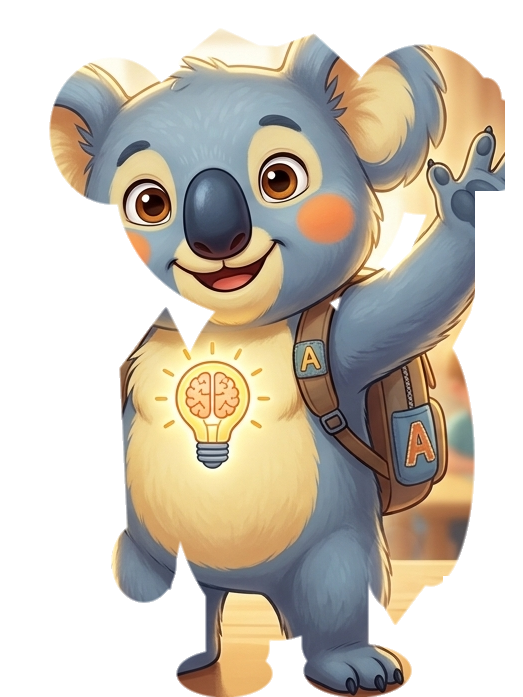
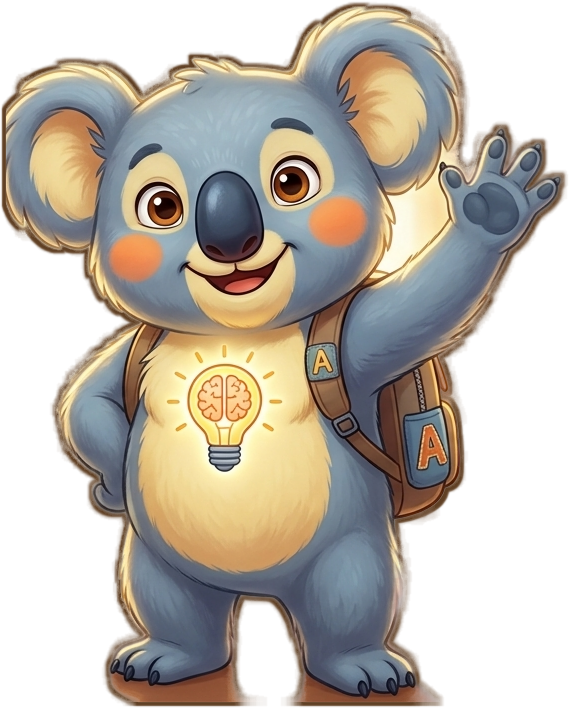
Clean up Atlas cutout and corner greeting

diff --git a/css/style.css b/css/style.css
@@ -339,29 +339,6 @@ main {
   gap: 0.7rem;
 }
 
-.atlas-dashboard-callout {
-  display: grid;
-  grid-template-columns: auto minmax(0, 1fr);
-  align-items: center;
-  gap: 0.75rem;
-  width: min(100%, 34rem);
-  margin: 1rem 0;
-  padding: 0.8rem;
-  border: 1px solid color-mix(in srgb, var(--atlas-blue-strong) 25%, var(--line));
-  border-radius: 16px;
-  background: color-mix(in srgb, var(--atlas-blue) 18%, var(--surface-strong));
-  box-shadow: var(--shadow-soft);
-}
-
-.atlas-dashboard-callout strong,
-.atlas-dashboard-callout span {
-  display: block;
-}
-
-.atlas-dashboard-callout span {
-  color: var(--muted);
-}
-
 .primary-button,
 .secondary-button,
 .text-button,
@@ -950,10 +927,44 @@ textarea {
   filter: drop-shadow(0 1.45rem 1.6rem rgba(31, 45, 75, 0.34)) saturate(1.08);
 }
 
+.atlas-corner-bubble {
+  position: absolute;
+  right: min(72%, 10.4rem);
+  top: clamp(0.4rem, 2vw, 1.1rem);
+  width: min(13.5rem, 48vw);
+  padding: 0.72rem 0.85rem;
+  border: 1px solid color-mix(in srgb, var(--atlas-blue-strong) 34%, var(--line));
+  border-radius: 18px 18px 6px 18px;
+  background: color-mix(in srgb, var(--surface-strong) 94%, var(--atlas-blue));
+  box-shadow: 0 16px 38px rgba(31, 45, 75, 0.16);
+  color: var(--text);
+  font-size: 0.88rem;
+  font-weight: 900;
+  line-height: 1.25;
+  pointer-events: none;
+  animation: atlasBubblePulse 2.8s ease-in-out infinite;
+}
+
+.atlas-corner-bubble::after {
+  content: "";
+  position: absolute;
+  right: -0.42rem;
+  bottom: 0.75rem;
+  width: 0.8rem;
+  height: 0.8rem;
+  border-right: 1px solid color-mix(in srgb, var(--atlas-blue-strong) 34%, var(--line));
+  border-bottom: 1px solid color-mix(in srgb, var(--atlas-blue-strong) 34%, var(--line));
+  background: inherit;
+  transform: rotate(-45deg);
+}
+
 .atlas-standing-image {
   display: block;
   width: 100%;
   height: auto;
+  filter:
+    drop-shadow(0 0 1px rgba(86, 53, 28, 0.95))
+    drop-shadow(0 0 5px rgba(255, 255, 255, 0.92));
   pointer-events: none;
   user-select: none;
 }
@@ -1054,6 +1065,18 @@ textarea {
   }
 }
 
+@keyframes atlasBubblePulse {
+  0%,
+  100% {
+    transform: scale(1);
+    box-shadow: 0 16px 38px rgba(31, 45, 75, 0.16);
+  }
+  50% {
+    transform: scale(1.035);
+    box-shadow: 0 20px 46px rgba(31, 45, 75, 0.2);
+  }
+}
+
 @media (prefers-reduced-motion: reduce) {
   *,
   *::before,
@@ -1125,8 +1148,7 @@ textarea {
     grid-template-columns: 1fr;
   }
 
-  .atlas-welcome,
-  .atlas-dashboard-callout {
+  .atlas-welcome {
     grid-template-columns: 1fr;
     text-align: left;
   }
@@ -1135,5 +1157,12 @@ textarea {
     width: 9.5rem;
     right: 0.25rem;
     bottom: 0.2rem;
+  }
+
+  .atlas-corner-bubble {
+    right: 7.6rem;
+    top: 0.35rem;
+    width: min(11rem, 58vw);
+    font-size: 0.78rem;
   }
 }

diff --git a/js/dashboard.js b/js/dashboard.js
@@ -7,13 +7,6 @@ export function renderDashboard(state) {
         <p class="eyebrow">Classroom command center</p>
         <h2>Welcome back, Ms. Carter</h2>
         <p>Turn IEP and PIA information into clear supports, routines, family updates, and daily teaching decisions.</p>
-        <div class="atlas-dashboard-callout">
-          ${dashboardAtlasAvatar()}
-          <div>
-            <strong>Chat with Atlas, your PIA Assistant!</strong>
-            <span>Atlas can help turn today&apos;s goals into calm, practical teaching ideas.</span>
-          </div>
-        </div>
         <div class="hero-actions">
           <button class="primary-button" data-route="upload">Upload Student Plan</button>
           <button class="secondary-button" data-route="aac">Generate AAC Materials</button>
@@ -65,14 +58,6 @@ export function renderDashboard(state) {
         </div>
       </article>
     </section>
-  `;
-}
-
-function dashboardAtlasAvatar() {
-  return `
-    <div class="atlas-avatar" aria-label="Atlas mascot avatar" role="img">
-      <img src="assets/images/atlas-mascot-thumb.png" alt="" />
-    </div>
   `;
 }
 

diff --git a/index.html b/index.html
@@ -48,6 +48,7 @@
     </div>
 
     <button class="atlas-guide-widget" data-route="coach" aria-label="Open Atlas AI chatbot">
+      <span class="atlas-corner-bubble">Hi, I'm Atlas. How can i help?</span>
       <img class="atlas-standing-image" src="assets/images/atlas-standing-widget.png" alt="Atlas, AI chatbot guide" />
     </button>
 